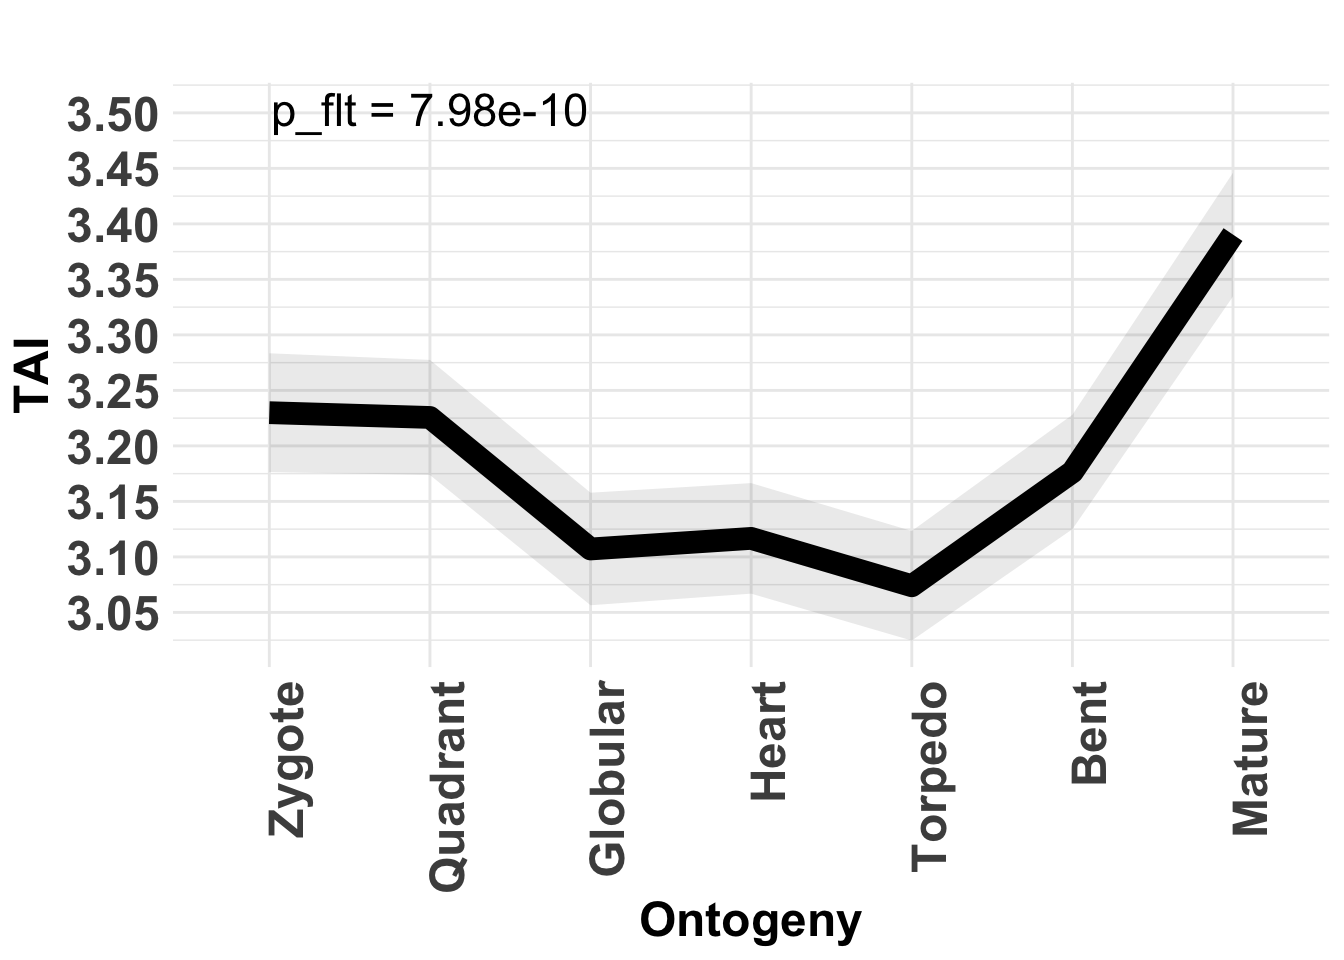
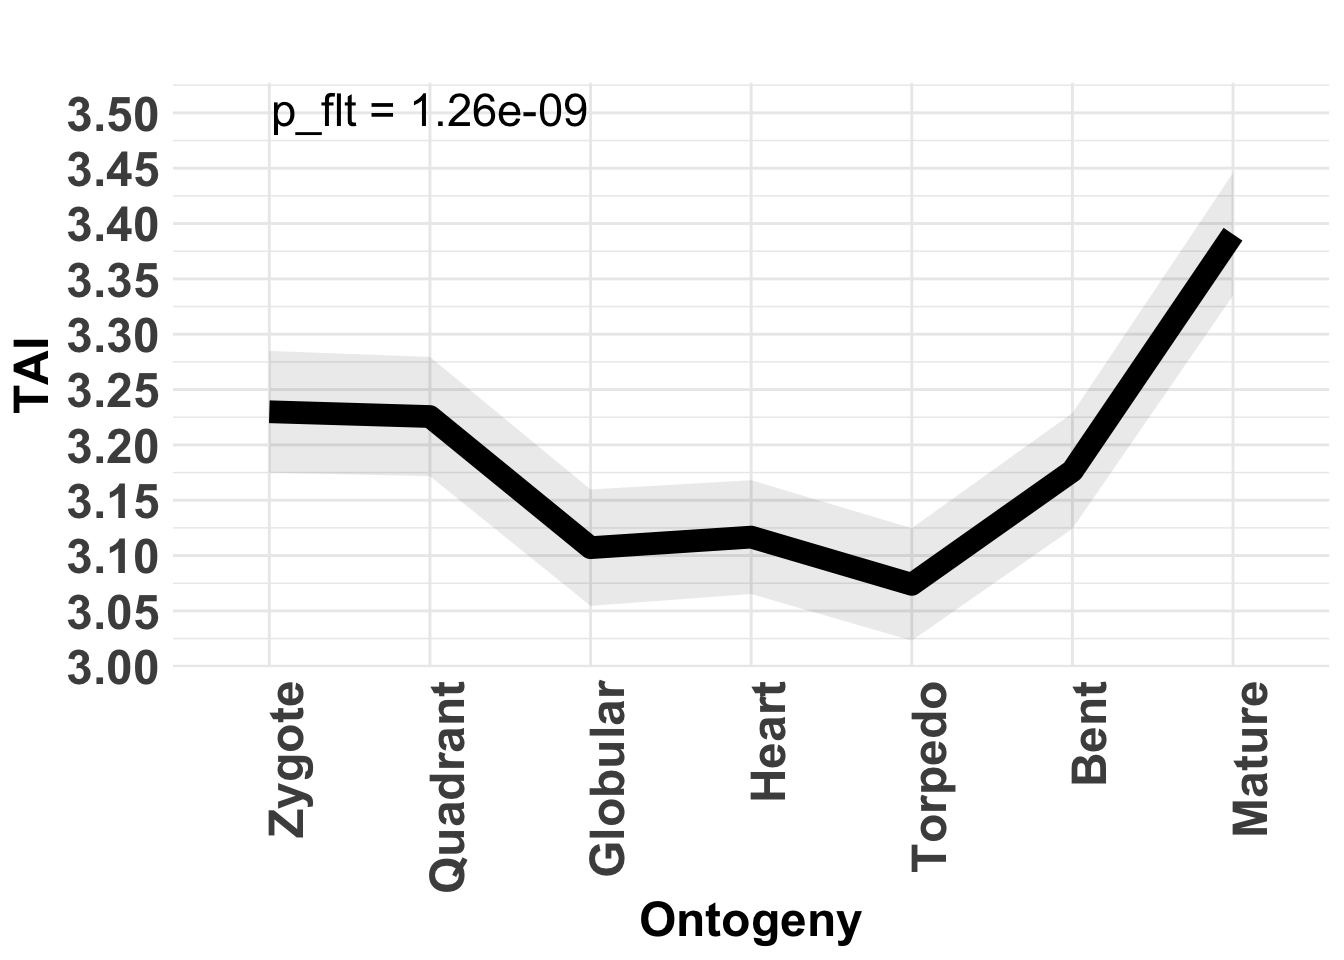
update docs

diff --git a/docs/articles/Intermediate.html b/docs/articles/Intermediate.html
@@ -97,7 +97,7 @@
     <div class="page-header toc-ignore">
       <h1>Intermediate Phylotranscriptomics Analyses</h1>
             
-            <h4 class="date">2019-07-22</h4>
+            <h4 class="date">2019-08-10</h4>
       
       <small class="dont-index">Source: <a href="https://github.com/HajkD/myTAI/blob/master/vignettes/Intermediate.Rmd"><code>vignettes/Intermediate.Rmd</code></a></small>
       <div class="hidden name"><code>Intermediate.Rmd</code></div>
@@ -154,7 +154,7 @@
 <pre><code>#&gt; Plot signature: ' TAI ' and test statistic: ' FlatLineTest ' running  1000  permutations.</code></pre>
 <p><img src="Intermediate_files/figure-html/unnamed-chunk-4-1.png" width="672"></p>
 <pre><code>#&gt;   Zygote Quadrant Globular    Heart  Torpedo     Bent   Mature 
-#&gt; 3.435920 3.429157 3.425902 3.441494 3.437228 3.437863 3.480886</code></pre>
+#&gt; 3.548781 3.522906 3.525598 3.542720 3.553653 3.576574 3.605687</code></pre>
 <pre><code>  Zygote Quadrant Globular    Heart  Torpedo     Bent   Mature 
 3.543700 3.573999 3.554707 3.543376 3.582905 3.562813 3.523409 </code></pre>
 <p>Visualization:</p>
@@ -165,17 +165,17 @@
 <p>Now we investigate the variance of the two observed patterns.</p>
 <pre><code>#&gt; [1] 0.01147725</code></pre>
 <pre><code>[1] 0.01147725</code></pre>
-<pre><code>#&gt; [1] 0.0003348224</code></pre>
+<pre><code>#&gt; [1] 0.0008514424</code></pre>
 <pre><code>[1] 0.0004102549</code></pre>
 <p>We observe that the variance of the randomly assigned TAI profile is much smaller than the variance of the correctly assigned TAI profile. Here we use the variance to quantify the <em>flatness</em> of a given TAI profile. In theory the variance of a perfect flat line would be zero. So any TAI profile that is close to zero would resemble a flat line. But how exactly are the variances of randomly assigned TAI profiles distributed? For this purpose the <code><a href="../reference/bootMatrix.html">bootMatrix()</a></code> function was implemented.</p>
 <p>The <code><a href="../reference/bootMatrix.html">bootMatrix()</a></code> takes an PhyloExpressionSet or DivergenceExpressionSet as input and computes N <code>TAI</code> or <code>TDI</code> profiles based on randomly assigned Phylostrata or Divergence-Strata.</p>
 <pre><code>#&gt;     Zygote Quadrant Globular    Heart  Torpedo     Bent   Mature
-#&gt; 1 3.425518 3.445706 3.455875 3.449622 3.472436 3.481349 3.420456
-#&gt; 2 3.523857 3.518026 3.534121 3.529588 3.515905 3.470875 3.417907
-#&gt; 3 3.528596 3.519109 3.503419 3.509958 3.503545 3.483082 3.538738
-#&gt; 4 3.558835 3.554413 3.501160 3.493273 3.511796 3.511749 3.611668
-#&gt; 5 3.590694 3.570121 3.573249 3.571405 3.574270 3.520160 3.511422
-#&gt; 6 3.521977 3.524453 3.466743 3.479351 3.489691 3.483897 3.512014</code></pre>
+#&gt; 1 3.513183 3.504044 3.482252 3.473787 3.466527 3.456053 3.436078
+#&gt; 2 3.534073 3.522037 3.522744 3.528825 3.530456 3.605565 3.631718
+#&gt; 3 3.433547 3.430002 3.422373 3.428788 3.440835 3.474029 3.530387
+#&gt; 4 3.658904 3.610683 3.611259 3.632967 3.621727 3.631666 3.706029
+#&gt; 5 3.541064 3.526362 3.505659 3.526360 3.495563 3.479931 3.476573
+#&gt; 6 3.481931 3.482537 3.481475 3.466686 3.474261 3.481114 3.512018</code></pre>
 <pre><code>    Zygote Quadrant Globular    Heart  Torpedo     Bent   Mature
 1 3.578000 3.577732 3.552230 3.556756 3.555627 3.553580 3.510978
 2 3.590339 3.564544 3.589012 3.598754 3.583721 3.597553 3.633530
@@ -213,12 +213,12 @@
 <p><img src="Intermediate_files/figure-html/unnamed-chunk-12-1.png" width="672"></p>
 <pre><code>#&gt; summary statistics
 #&gt; ------
-#&gt; min:  1.214084e-05   max:  0.004302513 
-#&gt; median:  0.000503419 
-#&gt; mean:  0.0006919038 
-#&gt; estimated sd:  0.0006118226 
-#&gt; estimated skewness:  1.971961 
-#&gt; estimated kurtosis:  8.450428</code></pre>
+#&gt; min:  2.938254e-05   max:  0.004042114 
+#&gt; median:  0.0005203955 
+#&gt; mean:  0.0007033065 
+#&gt; estimated sd:  0.000617286 
+#&gt; estimated skewness:  1.821932 
+#&gt; estimated kurtosis:  7.062205</code></pre>
 <p>Based on the observation that a gamma distribution is a suitable fit for <code>variance_vector</code>, we can now estimate the parameters of the gamma distribution that fits the data.</p>
 <div class="sourceCode" id="cb20"><pre class="sourceCode r"><code class="sourceCode r"><a class="sourceLine" id="cb20-1" data-line-number="1"><span class="co"># estimate the parameters: shape and rate using 'moment matching estimation'</span></a>
 <a class="sourceLine" id="cb20-2" data-line-number="2">gamma_MME &lt;-<span class="st"> </span>fitdistrplus<span class="op">::</span><span class="kw"><a href="https://www.rdocumentation.org/packages/fitdistrplus/topics/fitdist">fitdist</a></span>(variance_vector,<span class="dt">distr =</span> <span class="st">"gamma"</span>, <span class="dt">method =</span> <span class="st">"mme"</span>)</a>
@@ -248,7 +248,7 @@
 <p>Using the gamma distribution with estimated parameters the corresponding p-value of <code>var_real</code> can be computed.</p>
 <div class="sourceCode" id="cb21"><pre class="sourceCode r"><code class="sourceCode r"><a class="sourceLine" id="cb21-1" data-line-number="1"><span class="co"># p-value of var_real</span></a>
 <a class="sourceLine" id="cb21-2" data-line-number="2"><span class="kw"><a href="https://www.rdocumentation.org/packages/stats/topics/GammaDist">pgamma</a></span>(var_real, <span class="dt">shape =</span> shape,<span class="dt">rate =</span> rate, <span class="dt">lower.tail =</span> <span class="ot">FALSE</span>)</a></code></pre></div>
-<pre><code>#&gt; [1] 1.585675e-09</code></pre>
+<pre><code>#&gt; [1] 1.740476e-09</code></pre>
 <p>Hence, the variance of the correct TAI profile significantly deviates from random TAI profiles and this allows us to assume that the underlying TAI profile captures a real evolutionary signal.</p>
 </div>
 <div id="using-the-flatlinetest-function" class="section level3">

diff --git a/docs/articles/Introduction.html b/docs/articles/Introduction.html
@@ -97,7 +97,7 @@
     <div class="page-header toc-ignore">
       <h1>Introduction to the myTAI Package</h1>
             
-            <h4 class="date">2019-07-22</h4>
+            <h4 class="date">2019-08-10</h4>
       
       <small class="dont-index">Source: <a href="https://github.com/HajkD/myTAI/blob/master/vignettes/Introduction.Rmd"><code>vignettes/Introduction.Rmd</code></a></small>
       <div class="hidden name"><code>Introduction.Rmd</code></div>
@@ -219,7 +219,9 @@ Figure 3: Workflow describing the input and output of the myTAI package. The myT
 <li>
 <a href="https://figshare.com/articles/A_developmental_hourglass_in_fungi/1284022">phylostratigraphy.pl</a>: generate a phylostratigraphic (implemented by Cheng et al. 2015)</li>
 <li>
-<a href="https://mynotebook.labarchives.com/share/Shuqing_Xu/NTIuMHw2NDQyMi80MC9UcmVlTm9kZS8zNDEyODM1NjE2fDEzMi4w">phylo_pipeline.py</a>: generate a phylostratigraphic (implemented by Shuqing Xu)</li>
+<a href="https://mynotebook.labarchives.com/share/Shuqing_Xu/NTIuMHw2NDQyMi80MC9UcmVlTm9kZS8zNDEyODM1NjE2fDEzMi4w">phylo_pipeline.py</a>: a Python script to generate a phylostratigraphic map (implemented by Shuqing Xu)</li>
+<li>
+<a href="https://github.com/longjunwu/Genomic-phylostratigraphy-tool">Genomic-phylostratigraphy-tool</a>: a Python script to generate a phylostratigraphic map (implemented by Longjun Wu)</li>
 <li>
 <a href="http://bioinformatics.oxfordjournals.org/content/early/2016/03/26/bioinformatics.btw122.full.pdf">ORFanFinder</a>: generate a phylostratigraphic map</li>
 <li>

diff --git a/docs/articles/Advanced.html b/docs/articles/Advanced.html
@@ -97,7 +97,7 @@
     <div class="page-header toc-ignore">
       <h1>Advanced Phylotranscriptomics Analyses</h1>
             
-            <h4 class="date">2019-07-22</h4>
+            <h4 class="date">2019-08-10</h4>
       
       <small class="dont-index">Source: <a href="https://github.com/HajkD/myTAI/blob/master/vignettes/Advanced.Rmd"><code>vignettes/Advanced.Rmd</code></a></small>
       <div class="hidden name"><code>Advanced.Rmd</code></div>

diff --git a/docs/articles/Taxonomy.html b/docs/articles/Taxonomy.html
@@ -97,7 +97,7 @@
     <div class="page-header toc-ignore">
       <h1>Retrieving Taxonomic Information</h1>
             
-            <h4 class="date">2019-07-22</h4>
+            <h4 class="date">2019-08-10</h4>
       
       <small class="dont-index">Source: <a href="https://github.com/HajkD/myTAI/blob/master/vignettes/Taxonomy.Rmd"><code>vignettes/Taxonomy.Rmd</code></a></small>
       <div class="hidden name"><code>Taxonomy.Rmd</code></div>

diff --git a/docs/articles/Enrichment.html b/docs/articles/Enrichment.html
@@ -97,7 +97,7 @@
     <div class="page-header toc-ignore">
       <h1>Enrichment Analyses</h1>
             
-            <h4 class="date">2019-07-22</h4>
+            <h4 class="date">2019-08-10</h4>
       
       <small class="dont-index">Source: <a href="https://github.com/HajkD/myTAI/blob/master/vignettes/Enrichment.Rmd"><code>vignettes/Enrichment.Rmd</code></a></small>
       <div class="hidden name"><code>Enrichment.Rmd</code></div>

diff --git a/docs/articles/Expression.html b/docs/articles/Expression.html
@@ -98,7 +98,7 @@
       <h1>Gene Expression Analysis with <code>myTAI</code>
 </h1>
             
-            <h4 class="date">2019-07-22</h4>
+            <h4 class="date">2019-08-10</h4>
       
       <small class="dont-index">Source: <a href="https://github.com/HajkD/myTAI/blob/master/vignettes/Expression.Rmd"><code>vignettes/Expression.Rmd</code></a></small>
       <div class="hidden name"><code>Expression.Rmd</code></div>
